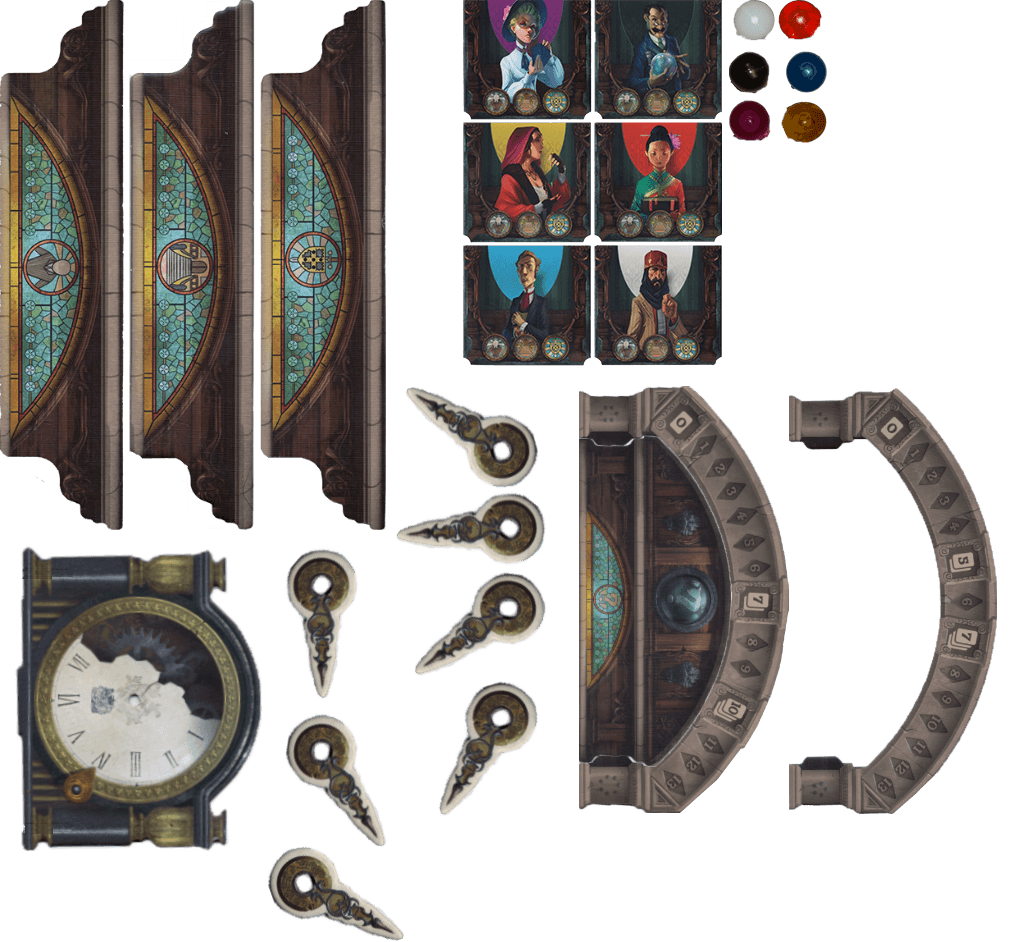
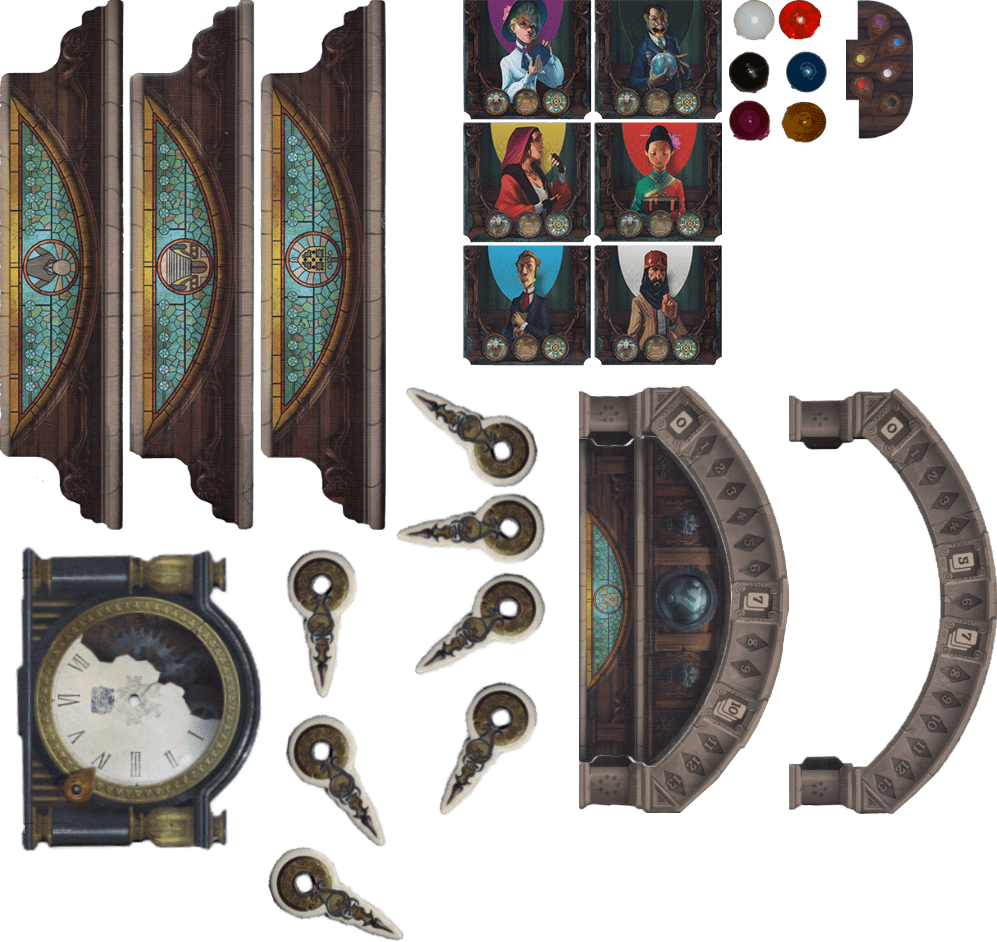
13/12 à 20:45

diff --git a/public/js/client.js b/public/js/client.js
@@ -2,7 +2,7 @@
   //Au chargement du document
   window.addEventListener('DOMContentLoaded',() => {
 
-    var room, username, numPlayer, facileLI, moyenLI, difficileLI, perso, perso2, nbPlayer, cartes, div, heure, positionVoyant, aiguille, aiguilleHeure, vision, tour, niveau, regles, suspect, age;
+    var room, username, numPlayer, facileLI, moyenLI, difficileLI, perso, perso2, nbPlayer, cartes, div, heure, positionVoyant, aiguille, aiguilleHeure, vision, tour, niveau, regles, suspect, age, plateau, nbJeton;
     var playerListe = [];
     var playerInfo = [];
     var positionJeton = {};
@@ -11,8 +11,8 @@
       WebSocket à l'aide de la fonction io fournie par le "framework"
       client socket.io.
     **/
-    // var socket = io('http://192.168.1.30:8888/');
-    var socket = io('http://10.1.1.137:8888/');
+    var socket = io('http://192.168.1.30:8888/');
+    // var socket = io('http://10.1.1.137:8888/');
     // var socket = io('http://www.samuelchristophe.com:8888/');
 
     // socket : Est un objet qui représente la connexion WebSocket établie entre le client WebSocket et le serveur WebSocket.
@@ -617,11 +617,17 @@
               //ajoute la carte trouvé : carteDiv.id = nomObjet + numCartes; var idCartesSuspect = ['personnages', 'cartesLieux', 'cartesObjet'];
               divElement.appendChild( document.getElementById( idCartesSuspect[ playerInfo[numJoueur].position ] + playerListe[numJoueur].indiceCarte ) );
               playerInfo[numJoueur].position = playerListe[numJoueur].position;
-
             }
             //vérifie les votes
-            for (let i = 0; playerInfo[numJoueur].intuition.children.length > 1 ; i++) {
-              playerInfo[numJoueur].intuition.removeChild(playerInfo[numJoueur].intuition.children[i]);
+            if (playerListe[numJoueur].nbJetonOK) {
+              for (let i = (nbJeton - 1); playerListe[numJoueur].nbJetonOK <= i ; i--) {
+                plateau.appendChild(playerInfo[numPlayer]['jetonok'][ i ]);
+              }
+            }
+            if (playerListe[numJoueur].nbJetonNOK) {
+              for (let i = (nbJeton - 1); playerListe[numJoueur].nbJetonNOK <= i ; i--) {
+                plateau.appendChild(playerInfo[numPlayer]['jetonnok'][ i ]);
+              }
             }
             //déplace le pion intuition
             if (playerListe[numJoueur].position < 4) {
@@ -828,6 +834,7 @@
           var objetDiv = document.createElement('div');
           var objetImage = document.createElement('img');
           var objet1 = document.createElement('div');
+          plateau = document.createElement('div');
 
           positionVoyant.classList.add('position');
           personnage.classList.add('div', 'centre');
@@ -844,6 +851,7 @@
           objetDiv.classList.add('image', 'positionJoueur', 'couper');
           objetImage.classList.add('image', 'objet');
           objet1.classList.add('div', 'index2');
+          plateau.classList.add('plateauIntuition');
 
           lieux2.style.width = '385px';
 
@@ -865,6 +873,7 @@
           positionVoyant.appendChild(lieux2);
           positionVoyant.appendChild(objet);
           positionVoyant.appendChild(objet1);
+          positionVoyant.appendChild(plateau);
 
           progression[1] = personnage;
           progression[2] = lieux;
@@ -901,7 +910,7 @@
             var point = document.createElement('div');
             var pointInt = document.createElement('div');
             var point6 = document.createElement('img');
-            var nbJeton = 3;
+            nbJeton = 3;
 
             point.classList.add('div', 'point', 'index2');
             pointInt.classList.add('image', 'pointInt', 'index2');
@@ -924,9 +933,17 @@
               positionJeton[numJoueur] = document.createElement('div');
               if (joueur && (joueur.joue != 'fantom') ) {
                 createPoint(numJoueur, point);
-                for (var i = 0; i < nbJeton; i++) {
-                  jetonIntuition(numJoueur, 'ok', joueur.joue, positionJeton[numJoueur]);
-                  jetonIntuition(numJoueur, 'nok', joueur.joue, positionJeton[numJoueur]);
+                for (var i = 0; i < joueur.nbJetonOK; i++) {
+                  if (joueur.nbJetonOK > i) {
+                    jetonIntuition(numJoueur, 'ok', joueur.joue, positionJeton[numJoueur]);
+                  } else {
+                    jetonIntuition(numJoueur, 'ok', joueur.joue, plateau);
+                  }
+                  if (joueur.nbJetonNOK > i) {
+                    jetonIntuition(numJoueur, 'nok', joueur.joue, positionJeton[numJoueur]);
+                  } else {
+                    jetonIntuition(numJoueur, 'nok', joueur.joue, plateau);
+                  }
                 }
                 positionJeton[numJoueur].classList.add('image');
                 positionJeton[numJoueur].style.top = '-20px';

diff --git a/public/css/master.css b/public/css/master.css
@@ -70,7 +70,6 @@ table {
 .point{
   height: 725px;
   width: 427px;
-  left: 1500px;
 }
 .padding{
   padding: 12px;
@@ -550,4 +549,12 @@ table {
   position: relative;
   float: left;
   margin: 3px;
+}
+.plateauIntuition{
+  background: url('../image/plateau.png') no-repeat 0 30px;
+  width: 21px;
+  height: 30px;
+  position: relative;
+  float: left;
+  z-index: 3;
 }
